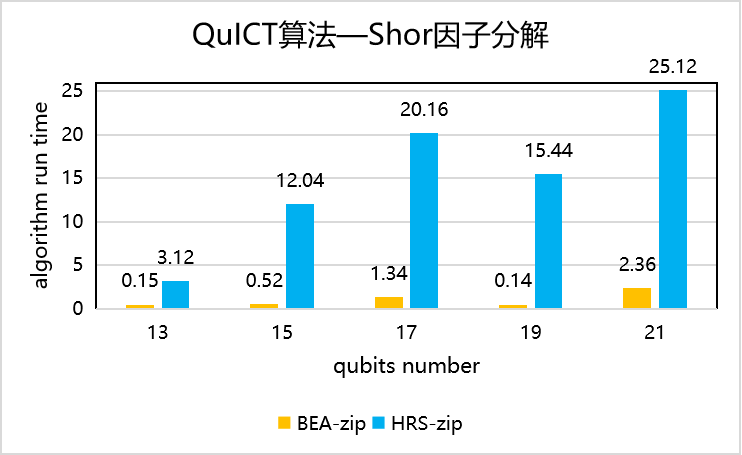
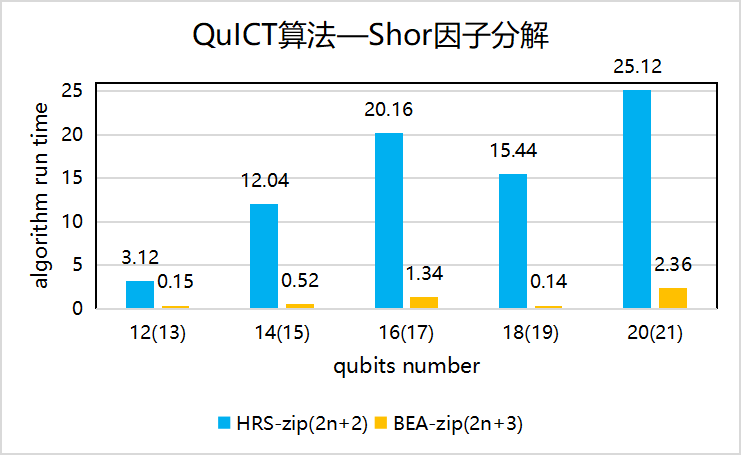
modify shor benchmark photo for input circuit width

diff --git a/docs/zh/docs/QuICTbenchmark/algorithm_benchmark.md b/docs/zh/docs/QuICTbenchmark/algorithm_benchmark.md
@@ -2,7 +2,7 @@
 
 ## Shor因数分解算法
 
-编译规则：构建13~21量子比特随机指令集电路，BEA_zip方法和HRS_zip方法进行因子计算
+编译规则：输入5~9比特，构建量子比特随机指令集电路，HRS_zip方法（电路宽度12~20）和BEA_zip方法（电路宽度13~21）进行分解因子计算
 
 基准度量：Shor算法运行的时间对比
 
